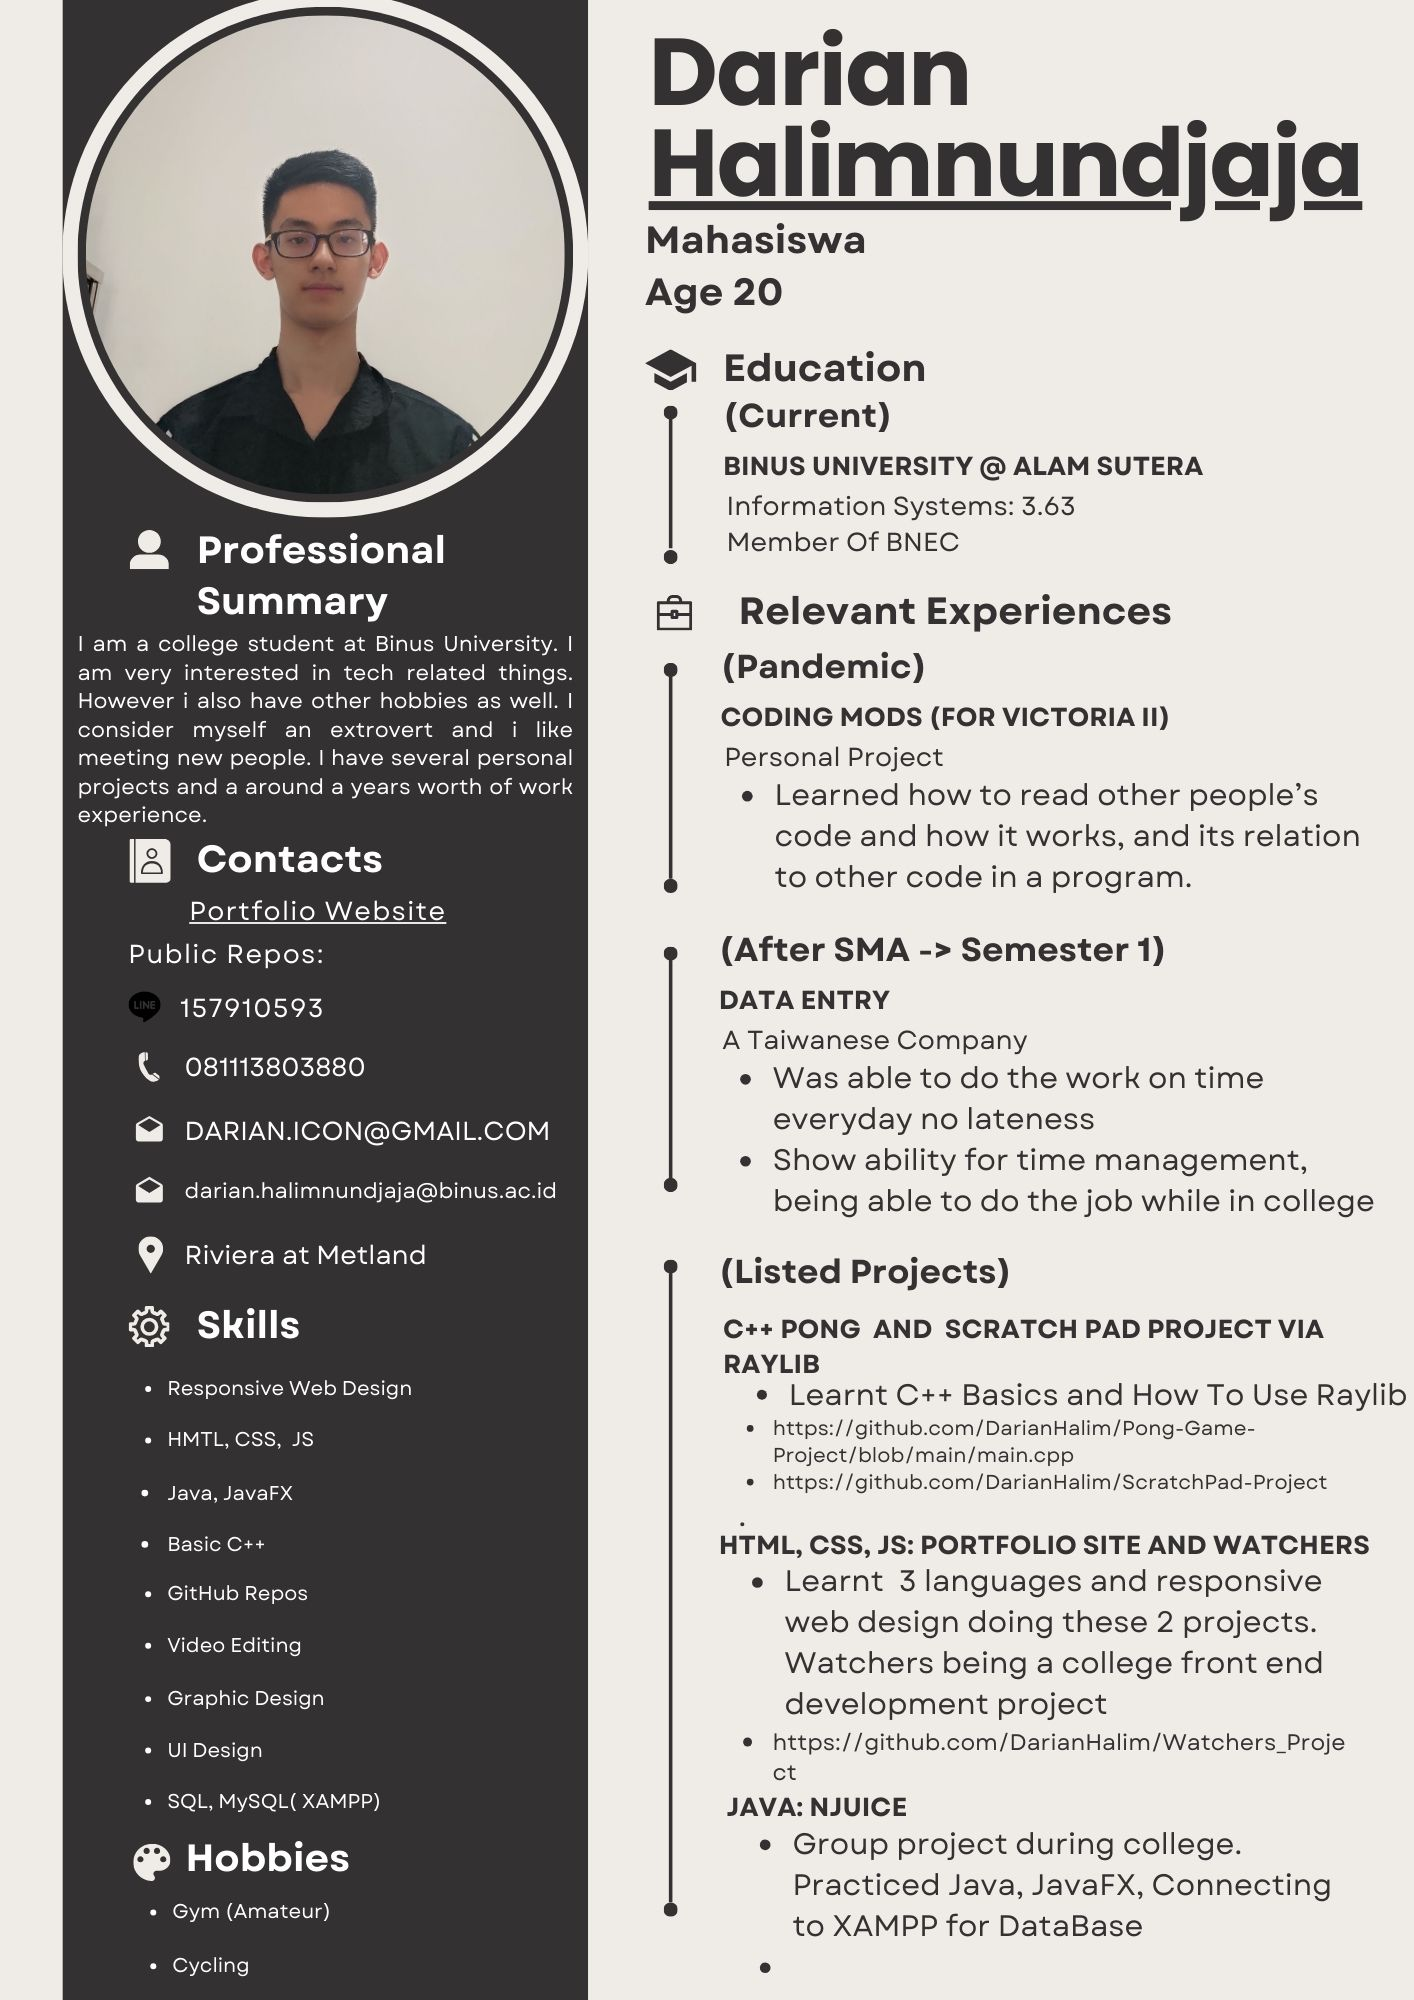
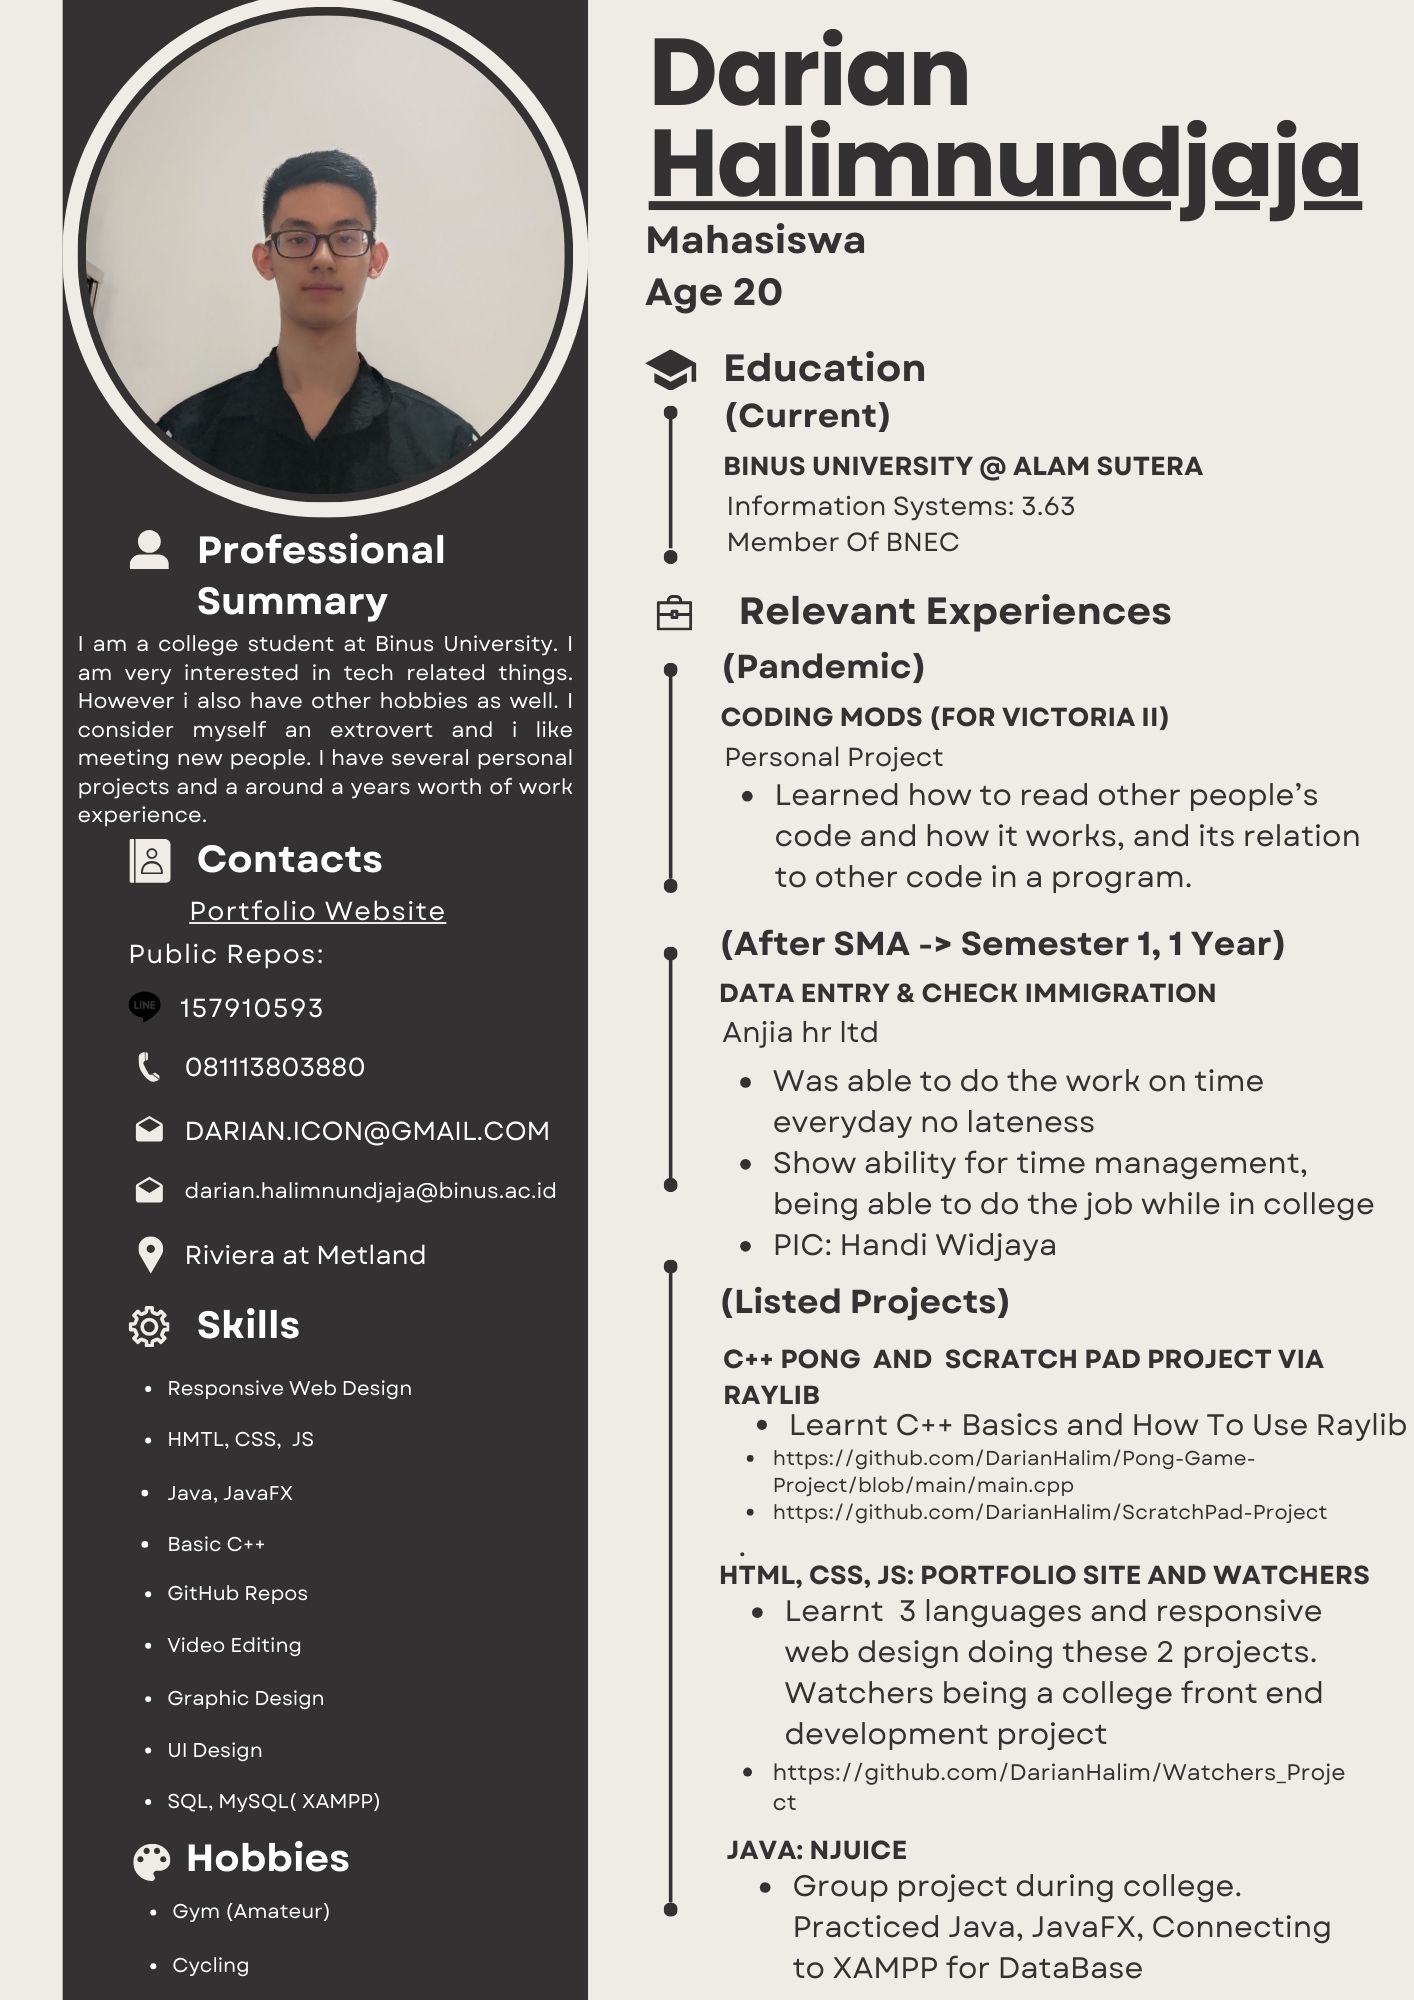
Added Work Exprience data
Change CV too

Changed region(s): [[0.4979, 0.465, 0.9958, 0.992]]

diff --git a/index.html b/index.html
@@ -171,13 +171,17 @@
 
             <div class="table">
                 <b>
-                    <h1>Data Entry</h1>
+                    <h1>Data Entry and Immigration Control</h1>
                 </b>
-                <h2>Taiwanese Company</h2>
+                <b>
+                    <h2>Anjia hr ltd</h2>
+                </b>
                 <h3>After SMA -> Semester 1</h3>
                 <h4>Gained Crucial Time Management Skills</h4>
                 <h4>Finished Job On Time No Lateness</h4>
-                <h4>Gained Multi-Taksing Skills</h4>
+                <h4>Gained Multi-Taksing Skills, and understand corporate confidentaility</h4>
+                <h4>Experience navigating corporate environment and processes</h4>
+                <h4>PIC: Handi Widjaya, 0821-3388-8802 </h4>
             </div>
 
         </div>
@@ -206,7 +210,8 @@
                         <h4>Personal Project</h4>
                         <p>Raylib, C++, C. Learnt objects, methods, parents,child,etc
                         </p>
-                        <a href="https://github.com/DarianHalim/Pong-Game-Project"> <button class="SkillCardButton">Repo Link</button></a>
+                        <a href="https://github.com/DarianHalim/Pong-Game-Project"> <button class="SkillCardButton">Repo
+                                Link</button></a>
                     </div>
 
 
@@ -224,9 +229,10 @@
                     <div class="SkillText">
                         <h4>Personal Project</h4>
                         <p>Learnt Raylib basics alongside C++ and C</p>
-                        <a href="https://github.com/DarianHalim/ScratchPad-Project"> <button class="SkillCardButton">Repo Link</button></a>
+                        <a href="https://github.com/DarianHalim/ScratchPad-Project"> <button
+                                class="SkillCardButton">Repo Link</button></a>
                     </div>
-                   
+
 
 
                 </div>
@@ -246,7 +252,8 @@
                             college course
                         </p>
 
-                        <a href="https://github.com/DarianHalim/SubmarineHunter"> <button class="SkillCardButton">Repo Link</button></a>
+                        <a href="https://github.com/DarianHalim/SubmarineHunter"> <button class="SkillCardButton">Repo
+                                Link</button></a>
                     </div>
                 </div>
 
@@ -262,7 +269,8 @@
                         <h4>Binus Project</h4>
                         <p>Learning JS, HTML,CSS, and responsive web design (ongoing)
                         </p>
-                        <a href="https://github.com/DarianHalim/Watchers_Project"> <button class="SkillCardButton">Repo Link</button></a>
+                        <a href="https://github.com/DarianHalim/Watchers_Project"> <button class="SkillCardButton">Repo
+                                Link</button></a>
                     </div>
                 </div>
             </div>
